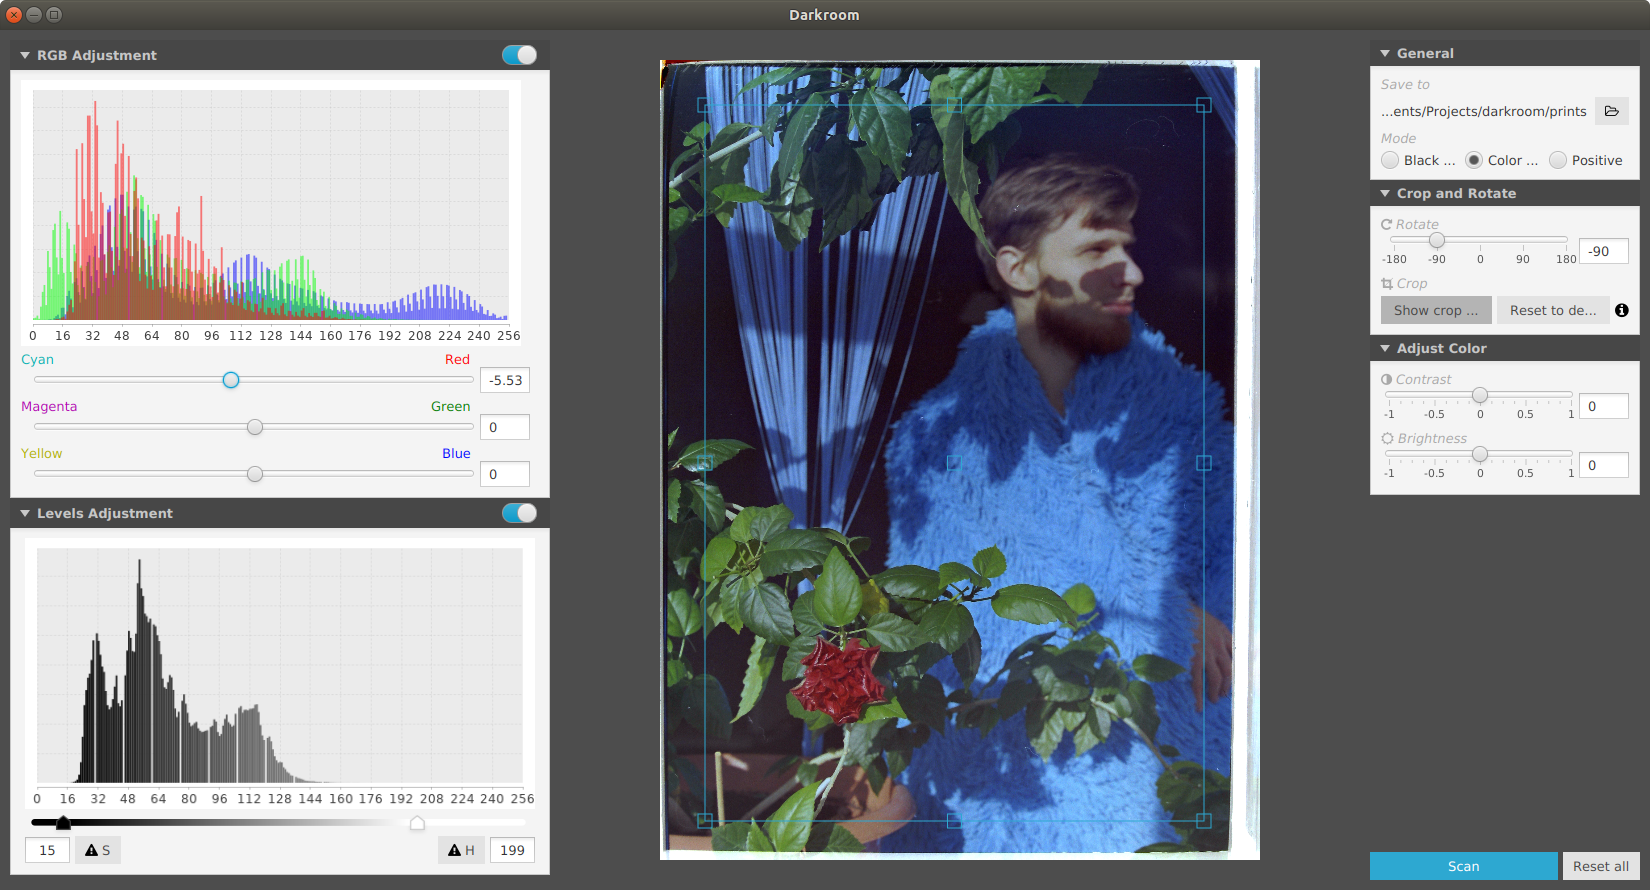
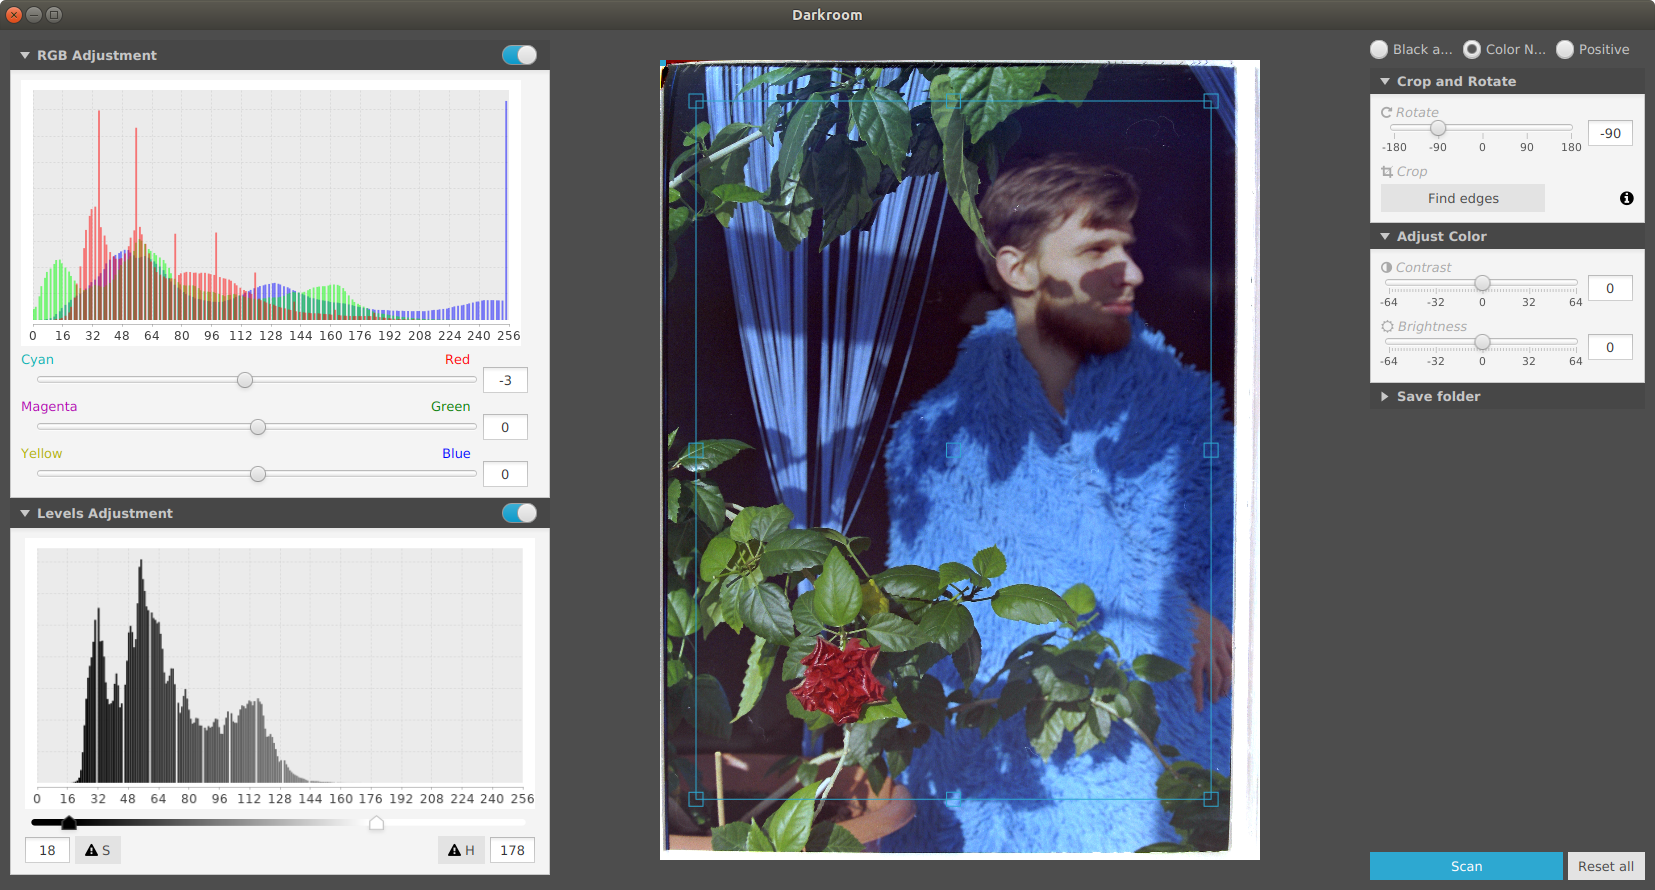
Updated readme

diff --git a/README.MD b/README.MD
@@ -11,7 +11,9 @@
 * Colors and shadows/highlights adjustments
 * Contrast/brightness control
 * Rotation and crop
+  * Edge detection and automatic crop area search
 * Magnifying glass
+* Gallery display
 
 ![Black-and-white](https://github.com/VolodyaG/darkroom/blob/master/src/main/resources/Screen%201.png)
 
@@ -28,8 +30,5 @@
 * [ ] Levels midpoint
 * [ ] Handle scanner not connected error
 * [ ] Dispose of scanner instance in app stop
-* [ ] Edge detection for crop area
-    * Edge detection algorithm
-    * Neural network
+* [ ] Auto crop area (Neural network)
 * [ ] Horizon adjustment
-* [ ] Tooltips
